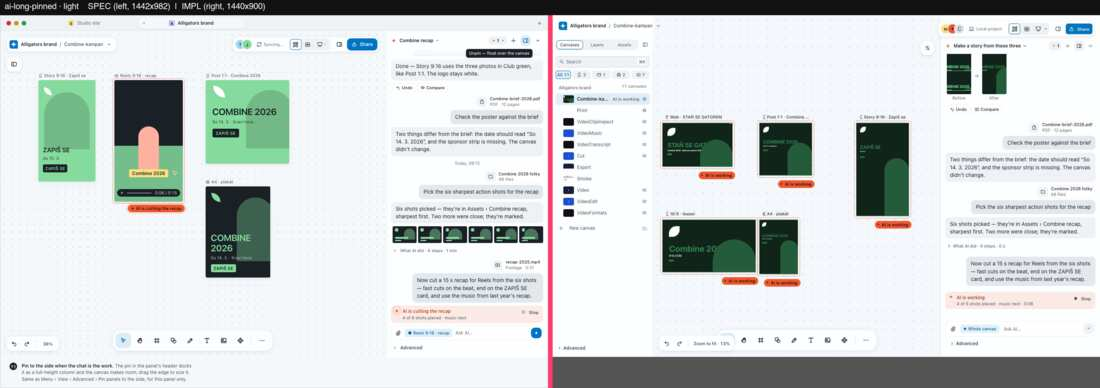
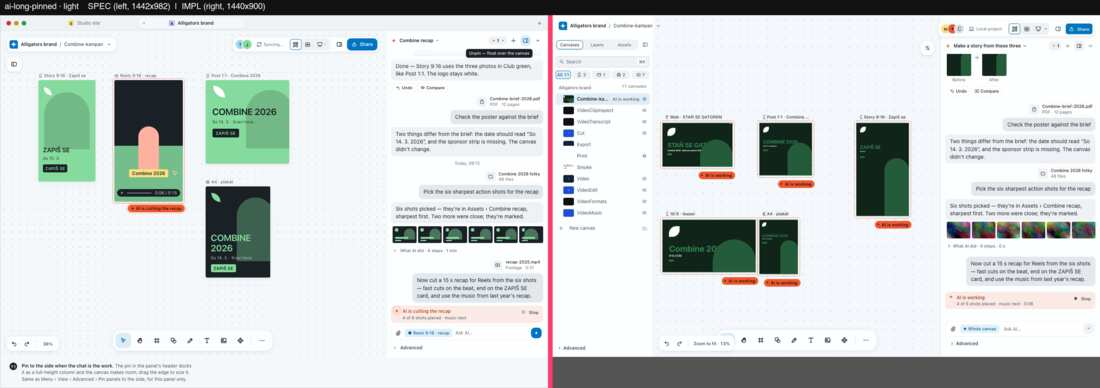
p8-r11-03: re-shot ai-done, ai-question, ai-long, ai-long-pinned (both themes); INDEX round 11; fix-r11-03

Changed region(s): [[0.8345, 0.1237, 1.0, 0.6186], [0.4945, 0.3402, 0.5564, 0.5567], [0.4945, 0.2784, 0.5564, 0.3093]]

diff --git a/.ai/plans/notes/v2-evidence/phase8-fidelity/03-ai-chat/fix-r11-03.md b/.ai/plans/notes/v2-evidence/phase8-fidelity/03-ai-chat/fix-r11-03.md
@@ -1,0 +1,21 @@
+# P8 round 11 — AI chat (`p8-r11-03`) — 03
+
+Branch `p8-r11-03` (from feat/maude-v2 e4cd00695). Checklist: `critic-bar5.md` (D7) MUST rows. Harness: `_r11-harness-g1/` (the D7 03 harness trimmed to four scenes). Re-shot on the Mac mini (slot 2, Chrome): `ai-done`, `ai-question`, `ai-long`, `ai-long-pinned`, both themes; the committed pairs are overwritten.
+
+## Done
+| MUST item | what changed | state |
+|---|---|---|
+| 1 ai-long: inspector toggle over the full-height chat header | `floating-panels.css` (shared shell CSS, own commit): a folded panel's corner icon (`.st-corner--right` / `--left`) stands beside a full-height chat (`.ai-island[data-full]`), at the chat's width (420, or the slot's `--rp-w` / `--sb-w` when wider) + gap. Same idea as the pinned layout's rule (06 ad-pinned). Pin: `p8-r11-03-corner-beside-full-chat.test.ts` (red before the CSS, green after). Re-shot: the toggle sits left of the panel, the "Hide the AI chat panel" chevron is clear in both themes | fixed (product) |
+| 2 ai-long-pinned: six-thumbnail strip | `v2/ai/picked-shots.js` + `PickedShots.jsx` (mounted in `Feed.jsx` AssistantMessage, CSS `.ai-six` in `attach.css`): the shots a reply picked, six 44 px tiles under its words, opening the lightbox. Data = the reply's OWN tool calls: raster files under the design root that a non-read call wrote, or a `cp` / `mv` command names (`Bash` `command` parsed by quoted/bare word); a `Read` is looking, not picking; fewer than two = no strip; nothing from the reply's prose. Tests: `p8-r11-03-picked-shots.test.ts` (7), `p8-r11-03-picked-shots-feed.test.tsx` (2; revert of the Feed mount turns the tile test red) | built (product) |
+| 3 ai-question: spark ring + chip | Product was right: `pointsFor` marks the elements a question was asked about (cmd-slash with an element picked) once the run ends with nothing touched. The D7 frame came from `s03e`'s ai-question (no element picked) which the `03x` chain run after `s03k`. `_r11-harness-g1` shoots ai-question only from `s03k`: the ring is on the A4 date line with its chip (reads "17 pt": the fixture's size, the board's 9 pt is a fixture value) | harness |
+| 4 ai-done light: "Made by AI" label | Capture timing, not a race: the old frame was shot on a `data-fresh` poll, in the 1.8 s finish moment. `s03r` waits for the settled ring + label (`h.settled`) and logs when it never comes; both themes logged `settled label "Made by AI"` and show it under Post 1:1 | harness |
+| 5 ai-long dark: "What AI did" fold | The D7 dark run lost the first run's steps (harness flake in the seed phase). `s03h` now logs the first chat's tool-call count, moved run records and `ai-steps` / turn card / Before-After counts; both themes: 6 tool calls, 1 run moved, fold 1, card 1, Before/After 1, and the frame shows "What AI did · 6 steps · 41 s" in both | harness |
+
+## Open (named)
+- ai-long-pinned: the strip is real data only while the agent names the picked files in a tool call under the design root. An agent that lists its picks in words (or copies them outside the design root, which this panel cannot serve) draws no strip. The pictures in the frame are the harness's generic photo fixtures.
+- ai-question: chip reads "17 pt" (fixture type size) vs the board's "9 pt"; the cmd-slash ask bar ("Is the A4 poster readable ...") is still on screen over the panel in the frame.
+- Unchanged polish rows of critic-bar5 (second divider clock time, "Jump to latest" count, Canvases panel open in ai-long-pinned, etc.).
+
+## Decisions
+- `decision:maude/v2-p8-r11-03-corner-beside-full-chat` — a folded panel's corner icon moves beside a full-height chat by CSS (`:has(... .ai-island[data-full])`, 420 + gap, wider slot wins). Rejected: JS measuring the island (a ResizeObserver for one offset), hiding the icon while the chat is full (the panel could not be reopened), moving the chat's header (the chevron is the chat's own).
+- `decision:maude/v2-p8-r11-03-picked-shots-from-tool-calls` — the strip is read from the reply's tool calls, not its words or a new stored field. Rejected: parsing paths from the prose (the board's sentence names none, and prose is the model's to vary), a per-reply record in `_chat/` (versioned-format change), the run's `touched` map (canvas files only).

diff --git a/.ai/plans/notes/v2-evidence/phase8-fidelity/03-ai-chat/INDEX.md b/.ai/plans/notes/v2-evidence/phase8-fidelity/03-ai-chat/INDEX.md
@@ -528,3 +528,14 @@ Final verification re-shoot of the IMPL side (every artboard id x light + dark) 
 | `ai-history` | re-shot | re-shot |
 
 - D7 harness note: on the merged tip the Version-history step of s03e left the app in Viewing (esc stands down while the composer has focus), which blocked the next ask; s03e now leaves Viewing through the view bar's `vh-viewbar-back` button. The s03e + s03h frames (ai-long, ai-done, ai-hero, ai-history, ai-panel-closed, ai-choice-q, ai-question, ai-adv-edges, ai-quit, ai-chat-list) come from that second run of the same chain (`chain.sh 03x`); the other frames from the first full `chain.sh 03` run.
+
+## Round 11 (p8-r11-03)
+
+Re-shot on the Mac mini with `_r11-harness-g1/` (the D7 harness trimmed to 03): `ai-done`, `ai-question`, `ai-long`, `ai-long-pinned`, both themes; the committed pairs are overwritten. What changed: the folded inspector's corner icon stands beside a full-height chat (`ai-long`); the `ai-six` thumbnail strip is built under the picked-shots reply (`ai-long-pinned`); `ai-done` is shot once the finish has settled into the "Made by AI" label in both themes; `ai-question` comes from the scene with an element picked (spark ring on the date line); `ai-long` has the "What AI did · 6 steps · 41 s" fold in both themes. Done / open per item: `fix-r11-03.md`.
+
+| id | dark | light |
+|---|---|---|
+| `ai-done` | re-shot | re-shot |
+| `ai-question` | re-shot | re-shot |
+| `ai-long` | re-shot | re-shot |
+| `ai-long-pinned` | re-shot | re-shot |
